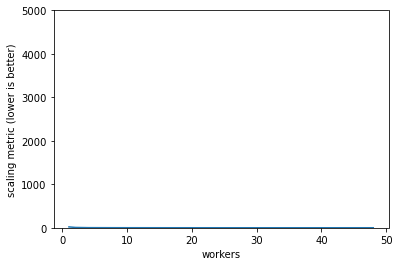
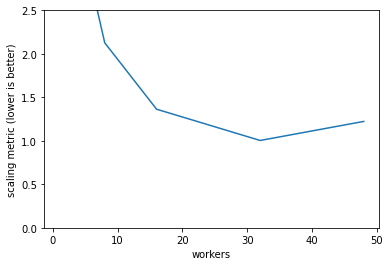
deploy: 26c7104eebc90cf3164a01e3860369a1315e558c

diff --git a/searchindex.js b/searchindex.js
@@ -1,1 +1,1 @@
-Search.setIndex({docnames:["README","case-studies/climatology-threshold","case-studies/read_speed","concepts-intro","concepts-types","dask-intro","dask-performance","dask-troubleshooting"],envversion:{"sphinx.domains.c":2,"sphinx.domains.changeset":1,"sphinx.domains.citation":1,"sphinx.domains.cpp":3,"sphinx.domains.index":1,"sphinx.domains.javascript":2,"sphinx.domains.math":2,"sphinx.domains.python":2,"sphinx.domains.rst":2,"sphinx.domains.std":2,"sphinx.ext.intersphinx":1,sphinx:56},filenames:["README.md","case-studies/climatology-threshold.ipynb","case-studies/read_speed.ipynb","concepts-intro.ipynb","concepts-types.ipynb","dask-intro.ipynb","dask-performance.ipynb","dask-troubleshooting.ipynb"],objects:{},objnames:{},objtypes:{},terms:{"000000000":[1,5],"0000z":7,"001":3,"00bound":5,"00long_nam":1,"011292":2,"01t00":1,"01t01":1,"01t02":1,"02t00":1,"03t00":1,"058817":2,"0625":5,"07374e":5,"079520":2,"08t06":5,"0e410aadf9156f5cf0b6cd8c2849d202ta":5,"0unit":[1,5],"0x14da3c04be20":1,"0x7fdac0880c10":5,"100":[1,2,5,7],"100645e":5,"102":5,"1024":7,"104":[3,5],"105":5,"107":5,"109":5,"10x10":5,"110":5,"111":5,"113":[3,5],"115":5,"117":5,"119":5,"120":5,"122":5,"124":5,"125":5,"126":5,"127":[1,5],"128":5,"130":5,"132":5,"134":5,"135":5,"136":3,"137":5,"139":5,"141":5,"143":5,"144":[3,5],"1440":[1,7],"1440dask":1,"144lon":5,"145":5,"147":5,"149":5,"14min":1,"150":5,"152":5,"154":5,"1543":1,"156":5,"1569":3,"158":5,"15t00":5,"160":5,"162":5,"164":5,"165":5,"167":5,"169":5,"16gb":4,"16t00":5,"16t12":5,"171":5,"172158":2,"173":5,"175":5,"177":5,"179":[1,5],"180":[1,2,5,7],"180346":2,"182":[2,3,5],"184":5,"1850":5,"186":5,"1875":5,"188":5,"18s":1,"190":5,"192":[2,3,5],"192dask":5,"194":5,"194987520":2,"195":5,"197":5,"1980":5,"1980lat":5,"1981":5,"199":5,"1990":4,"1arrai":5,"1bound":5,"200":[2,5,6],"2001":2,"201":5,"2010":[1,4,7],"20100513":1,"2014":5,"201412":5,"2019":5,"203":5,"205":5,"207":5,"209":5,"210":5,"212":5,"214":5,"216":5,"218":5,"220":5,"222":5,"22272":7,"224":5,"225":5,"227":5,"229":5,"231":5,"233":5,"235":5,"237":5,"239":5,"240":[3,5],"242":5,"24373440":2,"244":5,"246":5,"248":5,"250":[1,5],"252":5,"254":5,"255":5,"257":5,"259":5,"261":5,"263":5,"265":5,"267":[1,5,7],"269":5,"269419":2,"270":5,"271356":2,"272":5,"274":5,"276":5,"278":5,"280":5,"282":5,"284":5,"285":5,"287":5,"289":5,"291":5,"293":5,"295":5,"297":5,"299":5,"29t00":1,"2t_era5_oper_sfc_":2,"300":[1,2,5,7],"300x300":7,"302":5,"304":5,"306":5,"308":5,"30t00":1,"30x":7,"310":5,"312":5,"3125":5,"314":5,"315":5,"317":5,"319":5,"31long_nam":1,"31t00":1,"31t21":1,"31t22":1,"31t23":1,"31xarrai":1,"321":5,"323":5,"325":5,"327":5,"329":5,"330":5,"332":5,"334":5,"336":5,"338":5,"340":5,"342":5,"344":5,"345":5,"347":5,"349":5,"351":5,"353":5,"355":5,"357":5,"359":5,"360":[2,5,7],"36379929600":2,"365":[1,3,7],"365latitud":1,"372":[1,7],"375":5,"386297":2,"389975040":2,"38bound":5,"400":2,"406360":2,"4124":3,"4375":5,"43941":1,"45z":5,"475415":2,"48746880":2,"49701":5,"4gb":[4,5],"500":5,"5000":2,"515120":2,"52587890625":7,"5475":7,"552":7,"562":5,"5625":5,"5x5":5,"608944":2,"6093360":2,"60x":7,"625":5,"637993e":2,"643530":2,"6875":5,"688":5,"6_371_000":5,"6bound":5,"720":2,"721":[1,7],"721longitud":1,"744":[1,7],"772545":2,"800":5,"812":5,"8125":5,"819afaabcbec8f647c82c0c200330000":1,"874852":2,"875":5,"8760":[1,7],"8760latitud":1,"87695312":5,"8787":[1,5],"88bound":5,"8ish":6,"8unit":1,"9375":5,"943019":2,"962101":2,"97493760":2,"9arrai":5,"break":[5,6],"byte":[1,5,7],"case":[3,5,6],"class":5,"default":[1,2,5,7],"final":3,"function":[4,7],"import":[1,2,3,5,6,7],"long":[3,6],"new":[1,7],"public":[0,5],"return":[1,5,7],"super":3,"true":[3,5,7],"try":[3,4,5,7],"var":[2,7],"while":3,And:5,CMS:0,For:[1,3,5],Near:5,One:[3,4],PBS:[4,5],That:6,The:[0,1,2,3,4,5,6,7],There:[1,3,4,5],These:6,Using:[4,7],_chunksiz:5,_rand:7,abl:3,about:[1,2,5],access:[4,5,6],accord:3,account:[0,3],across:3,activ:7,actual:[4,5],add:[3,4,6,7],added:3,adding:3,affect:2,after:4,ages:6,ahmdhal:6,aim:[0,6],air:5,air_temperatur:5,air_temperaturelong_nam:5,all:[3,4,5,6,7],alloc:[3,7],allow:6,also:[0,3,4,6],alter:5,altern:7,alwai:3,amon:5,amount:[1,6,7],analys:[0,3,6],analysi:[0,1,3],ani:[2,3,5],anim:6,annot:4,anomali:1,anoth:[3,7],anyth:[1,6],appli:7,approach:3,arang:3,arbitrari:4,arc:0,arccss:5,archiv:1,area:[5,7],areacella:5,areacellahistori:5,around:[3,6,7],arrai:[1,4],arriv:3,ask:5,assign:5,assum:[3,4],atmospher:3,attribut:[1,5],automat:[1,4,5],avail:[0,4,5,6,7],avoid:4,awai:6,awar:3,axes:3,axi:[1,7],back:[5,7],balanc:[2,3],base:3,bash:4,basic:[3,6],becom:[3,6],befor:[1,2,4,6],behaviour:6,being:[3,7],benchmark:2,best:[2,3],better:2,between:[3,4],beyond:2,big:6,bin:4,binari:3,binder:0,bit:6,blocked_groupbi:1,blocked_resampl:[1,7],bodi:7,book:0,both:3,bound:5,box:6,build:5,built:6,button:0,c_d:1,cach:2,calcul:[1,2,3,5,6],call:7,can:[0,1,2,3,4,5,6,7],capabl:4,cat:1,caus:7,cdf_kwarg:1,cell:[5,6,7],cell_height:5,cell_measur:5,cell_method:5,cell_width:5,centr:[0,5],chang:[4,7],check:[1,3,5,7],chip:3,chunk:[1,2,5,7],chunk_siz:2,chunksiz:[1,5],chunktyp:[1,5],clean:[5,6,7],clex:0,client:[1,5,6],clim:1,clim_fil:1,climat:[0,3],climta:[1,5,7],clip:5,close:[5,6],cluster:[1,2,3,5,7],cm2:5,cm2_historical_r1i1p1f1_gn_185001:5,cmip6:5,cmip:5,cmor:5,code:[0,4,6],coecm:0,collect:[0,1],colorbar:5,column:2,com:0,combin:[2,3,4],come:[2,3,6],comm:5,comment:[4,5],common:5,comms_cost:3,commun:3,compens:3,compil:4,complex:4,compress:[2,6],comput:[0,3,4,5,6,7],concat_dim:2,concaten:1,concept:7,configur:5,consecut:6,consid:4,construct:1,contain:[0,6],convert:[3,7],coordin:[1,5],copi:4,core:[1,3,5],correctli:6,correspond:1,cos:5,cost:[2,3],costli:3,could:5,count:[1,2,3,5,6,7],coupl:[3,4],cover:0,cpu:[1,2,3,4,6],creat:[6,7],csiro:5,csv:2,current:[5,6,7],curv:3,cut:6,dai:[1,3,4,7],daili:[1,3,4,7],dapds00:5,dashboard:[1,5,7],dask:[1,2,4,6,7],dask_worker_dir:5,data:[0,1,2,3,4,5,6,7],data_s:2,dataarrai:[1,5],dataset:[0,1,3,5,6,7],datetime64:[1,5],dayofyear:1,decompress:[2,7],def:7,deg2rad:5,degrees_eastaxi:5,degrees_eastlong_nam:1,degrees_northaxi:5,degrees_northlong_nam:1,delet:1,demonstr:0,depend:4,detail:4,determin:3,df_91_180:2,dictionari:1,differ:[1,2,3,4,5,6],difficult:6,dime:5,dimens:[2,5,6],dimension:7,directli:[4,5],directori:[1,5],disk:1,displai:5,distribut:[3,7],dlat:5,dlon:5,doc:5,document:5,dodsc:5,doe:[1,5,6],doesn:[2,3,4,7],doing:[2,3,4,5,6],domain:3,don:[3,5],done:[3,4,6],doubt:6,down:[2,6,7],dramat:[3,7],drop:[2,7],dtype:[1,5],due:6,durat:2,dying:7,each:[1,3,4,5,6,7],easi:[2,6],easiest:4,edg:5,effect:[2,3,6],effici:3,effort:4,either:[3,7],element:[4,5],enabl:[4,5],end:[1,3,4,5,6],endpoint:5,enough:7,ensur:[4,7],entir:7,environ:[1,4],era5:[1,7],era5_msl_daili:7,era5_t2_load:2,errno:5,error:[5,7],especi:[0,3,7],essenti:[0,3],estim:3,etc:[1,4],evalu:[3,4,5],even:5,everi:[1,3,4,6],everyth:6,exampl:[2,3,5],excel:0,except:5,execut:[0,4,5,6,7],exit:7,expect:3,experi:5,experienc:4,explicit:7,explicitli:5,extern:7,extra:[3,4,7],extrapol:3,extrem:0,fairli:6,fals:[2,5],fanci:4,fast:3,faster:[3,4,6],fastest:3,few:[3,5,7],file:[0,1,2,3,4,7],filesystem:5,filter:6,find:[2,3],fine:[6,7],finish:7,first:[1,2,4,6],fit:[3,5],flag:[4,5],float3290:1,float32:[1,5,7],float640:5,float64186:5,float642:5,float64:[5,7],flux:3,focu:[0,2,3],follow:[1,5],fortran:0,found:7,frequenc:3,from:[1,2,3,6,7],from_arrai:7,fs38:5,full:[3,4,5,6],fulli:[2,3],further:[2,6],gadi:[0,1,2,4,5,6],gadicli:[1,5],gca:3,gener:[2,3,6],get:[3,4,5,6,7],getitem:1,github:0,give:[3,5,6],given:[1,2,3],global:[2,3],goe:7,going:6,good:[1,2,6],got:5,gotten:6,graph:[5,7],great:[1,6],grid:[0,5,6],groupbi:[2,7],halfwai:3,handl:4,happen:4,has:[3,4,7],have:[2,3,4,6,7],heart:3,height:5,heightarrai:5,heightstandard_nam:5,help:[3,4,5,6,7],here:[0,1,2,3,4,5,6,7],high:[1,3],higher:3,highlight:7,histor:5,histori:5,hold:[1,7],horizont:[2,6,7],hour:7,hourli:[1,3,4,7],hourly_to_daili:4,hourly_to_daily_year:4,how:[0,2,5,7],howev:[0,6],http:[0,5],huge:[2,5],hundr:7,idea:1,ideal:[2,7],identifi:[4,6,7],iloc:3,implement:7,increas:[3,6,7],indefinit:3,independ:[3,4],index:1,indic:7,ineffici:5,inform:[3,6],initi:[1,6],input:[4,5],inspect:5,instanc:[3,4],instead:[1,5,7],instruct:4,int_:5,intak:1,integ:[2,4],intel:4,intend:3,interact:5,intermedi:7,intrins:4,irregularli:7,isifinit:7,isn:[5,7],isnan:2,issu:[6,7],item:5,iter:[4,6],its:[3,4,5,7],itself:[4,5,7],job:[1,3,4],jobf:1,jupyt:[0,5,6,7],just:[1,2,3,5,6],kcell_method:5,keep:[3,5,6,7],kei:1,kept:6,klong_nam:1,know:5,knowledg:4,known:3,ksu:3,label:2,laid:6,larg:[0,5,6,7],larger:[5,6],lat0:5,lat1:5,lat:5,lat_bndsunit:5,later:5,latest:5,latitud:[1,2,5,7],latitudearrai:[1,5],latitudestandard_nam:5,law:6,layout:2,lazili:5,leav:7,left:0,legend:2,less:[5,6],let:[1,2,4],level:[1,3,6,7],librari:[2,4,5,6,7],like:[3,5,7],limit:[3,5,6,7],link:5,linspac:5,load:[2,4,5,7],local_directori:5,lock:6,lon0:5,lon1:5,lon:5,lon_bndsunit:5,long_nam:[1,5],longitud:[1,2,5,7],longitudearrai:[1,5],longitudestandard_nam:5,look:[1,2,3,6],loop:[5,6,7],lot:[3,6,7],low:[3,6],lower:[2,3],lowest:3,made:[3,5],mai:[0,6,7],make:[1,2,3,4,5,6,7],makean:6,manag:[4,6],mani:[3,5],manifest:6,manner:3,manual:7,march:4,mark:4,massiv:7,match:[1,7],mathcal:3,matplotlib:[1,2,3,5],max:1,maxi:5,maximum:[1,2],mean:[1,4,5,6,7],meancell_measur:5,megabyt:7,mem:4,memori:[1,3,5,6],memory_limit:5,merit:3,messag:[4,7],meta:[1,5],metadata:5,meter:5,method:4,metr:1,metric:2,middl:3,might:[1,3,4],mind:[3,5,6],minimis:[1,2],minimum:[2,3],miss:5,mkl:4,mode:5,model:[0,3,4],modern:[3,4],modul:4,month:[4,7],more:[3,4,5,6],most:[3,4,5,6,7],mostli:7,move:6,mpi:[3,4],msl:7,msl_daili:7,much:[4,5,6,7],multi:7,multipl:[2,3,4,6],multipli:3,multiprocess:4,mx2t:1,n_worker:5,name:[4,5],nameerror:5,nan:2,narrow:2,nativ:4,nbyte:7,nci:[0,1,3,4,5],nci_script:0,ncpu:4,ndarrai:[1,5,7],nearbi:6,neccessari:7,neccessarili:3,need:[1,3,4,5,7],needn:7,neighbour:3,nest:2,netcdf:[2,7],network:3,next:[4,6,7],node:[2,3,4,6],none:2,normal:[5,6],note:[0,4,6],notebook:[0,5],noth:6,now:7,num:5,number:[1,2,3,4,5,6,7],numpi:[1,2,3,4,5,7],observ:3,ocean:3,off:2,often:1,omp:4,omp_num_thread:4,onc:[2,4,5,6,7],one:[3,4,5,6,7],one_thread:2,ones:5,onli:[3,4,5,7],open:[6,7],open_dataarrai:[1,7],open_dataset:[5,6],open_mfdataset:[2,5,7],openmp:4,oper:[1,2,5,6,7],optim:[2,3],optimis:[3,4,7],option:[4,5],order:[3,4,7],org:5,other:[3,4,5,6],otherwis:[5,6],our:[1,2,4],out:[1,2,3,6],outer:5,output:[1,4],over:[1,3,4,5,6,7],own:[3,4,5,6],page:0,panda:[2,3,4,5],paralellis:4,parallel:[0,3,5],parallelis:[3,4,5],parallis:3,paramet:[1,5],parse_byt:2,part:[0,3,4],partner:3,pass:4,past:3,path:[1,2,5],pathlib:1,pbs:4,pbs_jobf:1,pbs_ncpu:4,pcolormesh:5,per:[1,2,4,6,7],percentil:1,perf_count:2,perform:[1,5,7],perhap:[4,6],period:7,phi:5,phi_0:5,phi_1:5,plot:[1,2,3,5,6],plt:[2,3,5],point:[1,3,5,6],polit:5,poor:7,pop:7,possibl:[4,7],post:1,potenti:3,prefer:6,pressur:7,prevent:6,previou:[1,4],primari:0,print:5,printout:7,privat:4,problem:[3,5,6,7],process:[1,2,3,4,5,6,7],process_var:7,processingxarrai:1,processor:3,produc:[0,3,4],product:[3,5],product_typ:1,profil:[4,6],program:[0,3,4],programm:4,progress:6,project:3,proporion:3,proport:2,protocol:5,provid:5,proxi:1,purpos:6,put:1,pyplot:[2,3,5],python:[0,5],qopenmp:4,qsub:5,quadmesh:1,queue:[3,4],quicker:3,quickli:3,quit:[2,7],quota:5,r1i1p1f1:5,r_earth:5,radian:5,random:7,rang:2,rate:7,rather:[1,3,5,6,7],read:[2,3,4,5,6,7],read_csv:[2,3],read_spe:2,real:[3,4],realli:[5,7],reanalysi:[1,2,3,7],reason:[1,5,6,7],recommend:6,recompil:4,record:3,red:6,reduc:3,refer:3,regular:7,regularli:1,rememb:[2,3],replac:5,repres:3,request:[3,5],requir:[1,4],resampl:1,reset:6,reset_index:2,reshap:7,resolut:3,resourc:[3,5,7],restart:7,result:[2,3,4],retain:5,rocket:0,row:2,rt52:[2,7],run:[1,2,3,4,5,6,7],runtim:[3,6],sai:[3,4,5,6,7],same:[3,4,6,7],sampl:[3,7],save:[1,2,4,5,7],scalar:5,scale:[0,2,6],schedul:[1,5],scheme:3,scienc:[0,3],scipi:4,scratch:1,script:[0,4,5],search:[1,3],secondli:4,see:[3,5,7],seen:7,sel:1,select:[2,6],serial:[3,6],serial_fract:3,servic:3,session:0,set:[4,5,7],set_index:2,set_ylim:3,setup:5,sever:1,shape:[1,5,7],share:[3,5],should:[2,4,5,6,7],show:[6,7],shuffl:6,side:[1,3],signific:3,significantli:7,simplest:4,sin:5,sinc:[1,5],singl:[1,3,4,5,6,7],size:[1,2,5,7],skipinitialspac:3,slow:[2,4],small:[3,6],smaller:[3,6],socket:3,solv:7,some:[2,3,6,7],someth:[3,5],somewhat:0,sourc:[0,1,7],space:[0,1,5,7],special:[4,5],specif:[3,6],speed:3,spend:[3,6],spent:2,split:[3,4],stabl:6,stage:6,stall:7,standard:5,standard_nam:5,start:[0,1,2,3,6,7],station:3,statist:3,statu:[1,5],step:1,still:[3,5],stop:5,store:[0,5],straightforward:6,stream:5,stringio:3,structur:5,sub_collect:1,submit:4,subregion:3,subsequ:4,subset:[3,5,6],sum:5,supercomput:[4,5],support:[5,7],sure:[2,4,5,6,7],surfac:[3,5],sys:1,system:[0,5],t_d:1,take:[3,4,5,6],taken:[2,3],talk:3,tas:5,tas_201001:4,tas_:4,tas_amon_access:5,tas_daily_201001:4,tas_daily_:4,task:[1,3,5,7],tcp:[1,5],team:0,techniqu:3,tell:3,temp:7,temperatur:[1,5],temperaturecom:5,temperatureunit:5,tempfil:[1,5],temporari:[1,5,6,7],temporarydirectori:[1,5],textrm:2,than:[1,3,4,5,6,7],thei:[1,3,4,5,7],them:[5,6,7],themselv:[3,4],theta:5,theta_0:5,theta_1:5,thi:[0,1,2,3,4,5,6,7],thing:[2,3,4,7],those:[0,3,5],though:5,thread:[2,5,6],threads_per_work:5,thredd:5,thresh:1,thresh_fil:1,through:3,throughout:3,time:[1,2,3,4,5,6,7],time_bndsaxi:5,time_chunks:5,timearrai:1,timelin:6,timeout:5,timestandard_nam:5,timestep:6,tini:5,tlong_nam:5,tmax:1,tmax_anomali:1,tmax_clim:1,tmax_d:1,tmax_thresh:1,tmp:[1,6],tmpebt79pi8:1,to_dataset_dict:1,to_netcdf:[1,6,7],to_netcdf_throttl:7,togeth:6,too:[4,6,7],top:0,total:[1,3,4,5,7],track:7,train:0,treat:5,trick:4,tricki:6,tupl:5,turn:5,two:1,type:[1,5,6,7],unexpect:4,unit:[1,3,5],unlik:3,uplong_nam:5,usag:6,use:[0,2,3,4,5,6,7],used:[0,3,5,6],useful:[3,5,6],user:[1,3],uses:4,using:[0,3,4,5,6],usual:5,util:2,v20191108:5,valu:[1,3,4,5,7],vari:3,variabl:[2,4],variou:2,vdi:0,vector:[4,5],version:[5,7],view:[4,5],visual:5,wai:[3,4,5,7],wall:[1,2],walltim:[2,3,4],want:[1,2,4,5,7],warn:5,watch:4,weather:[0,3],websit:[0,3],well:[2,6],were:5,what:[3,4,5,6],when:[1,2,3,4,5,6,7],where:[3,7],whether:[3,6],which:[1,3,4,5],whole:[4,5,7],width:5,within:[4,5,6],without:[4,5,7],won:3,work:[0,2,3,4,5,6,7],workaround:7,worker:[1,2,5,7],world:3,would:[3,4,5],write:[3,4,5,6],x27:[1,5],xarrai:[1,2,4,5,6,7],xhost:4,xlabel:[2,3],xlong_nam:5,xtick:2,year:[1,3,4],ylabel:[2,3],ylim:2,ylong_nam:5,you:[1,3,4,5,6,7],your:[1,3,5,6,7],zero:7,zposit:5},titles:["Front Matter","Climatology Threshold","Measuring Performance","Introduction","Types of parallelism","Introduction","Performance","Pathological Behaviour and Troubleshooting"],titleterms:{Dying:7,ahmdahl:3,arrai:[5,7],backpressur:7,behaviour:7,charg:3,choic:6,chunk:6,climatolog:[1,7],cluster:6,common:4,condit:4,contribut:0,creat:5,dashboard:6,dask:5,design:4,distribut:[4,5,6],embarissingli:4,era5:2,file:[5,6],fortran:4,from:5,front:0,gnu:4,gotcha:4,graph:6,index:7,intermedi:6,introduct:[3,5],kernel:7,lack:7,law:3,level:2,load:6,lock:4,loop:4,manual:5,matter:0,mean:2,measur:2,memori:[4,7],netcdf:[5,6],one:2,oper:4,out:7,parallel:4,patholog:7,pattern:4,perform:[2,6],profil:3,python:4,qsub:4,race:4,resampl:7,save:6,scale:3,shape:6,share:4,singl:2,size:6,supercomput:3,task:6,threshold:1,troubleshoot:7,type:4,using:7,vectoris:4,year:2}})
+Search.setIndex({docnames:["README","case-studies/climatology-threshold","case-studies/read_speed","concepts-intro","concepts-types","dask-intro","dask-performance","dask-troubleshooting"],envversion:{"sphinx.domains.c":2,"sphinx.domains.changeset":1,"sphinx.domains.citation":1,"sphinx.domains.cpp":3,"sphinx.domains.index":1,"sphinx.domains.javascript":2,"sphinx.domains.math":2,"sphinx.domains.python":2,"sphinx.domains.rst":2,"sphinx.domains.std":2,"sphinx.ext.intersphinx":1,sphinx:56},filenames:["README.md","case-studies/climatology-threshold.ipynb","case-studies/read_speed.ipynb","concepts-intro.ipynb","concepts-types.ipynb","dask-intro.ipynb","dask-performance.ipynb","dask-troubleshooting.ipynb"],objects:{},objnames:{},objtypes:{},terms:{"000000000":[1,5],"0000z":7,"001":3,"00bound":5,"00long_nam":1,"011292":2,"01t00":1,"01t01":1,"01t02":1,"02t00":1,"03t00":1,"058817":2,"0625":5,"07374e":5,"079520":2,"08t06":5,"0e410aadf9156f5cf0b6cd8c2849d202ta":5,"0unit":[1,5],"0x14da3c04be20":1,"0x7fdac0880c10":5,"100":[1,2,5,7],"100645e":5,"102":5,"1024":7,"104":[3,5],"105":5,"107":5,"109":5,"10x10":5,"110":5,"111":5,"113":[3,5],"115":5,"117":5,"119":5,"120":5,"122":5,"124":5,"125":5,"126":5,"127":[1,5],"128":5,"130":5,"132":5,"134":5,"135":5,"136":3,"137":5,"139":5,"141":5,"143":5,"144":[3,5],"1440":[1,7],"1440dask":1,"144lon":5,"145":5,"147":5,"149":5,"14min":1,"150":5,"152":5,"154":5,"1543":1,"156":5,"1569":3,"158":5,"15t00":5,"160":5,"162":5,"164":5,"165":5,"167":5,"169":5,"16gb":4,"16t00":5,"16t12":5,"171":5,"172158":2,"173":5,"175":5,"177":5,"179":[1,5],"180":[1,2,5,7],"180346":2,"182":[2,3,5],"184":5,"1850":5,"186":5,"1875":5,"188":5,"18s":1,"190":5,"192":[2,3,5],"192dask":5,"194":5,"194987520":2,"195":5,"197":5,"1980":5,"1980lat":5,"1981":5,"199":5,"1990":4,"1arrai":5,"1bound":5,"200":[2,5,6],"2001":2,"201":5,"2010":[1,4,7],"20100513":1,"2014":5,"201412":5,"2019":5,"203":5,"205":5,"207":5,"209":5,"210":5,"212":5,"214":5,"216":5,"218":5,"220":5,"222":5,"22272":7,"224":5,"225":5,"227":5,"229":5,"231":5,"233":5,"235":5,"237":5,"239":5,"240":[3,5],"242":5,"24373440":2,"244":5,"246":5,"248":5,"250":[1,5],"252":5,"254":5,"255":5,"257":5,"259":5,"261":5,"263":5,"265":5,"267":[1,5,7],"269":5,"269419":2,"270":5,"271356":2,"272":5,"274":5,"276":5,"278":5,"280":5,"282":5,"284":5,"285":5,"287":5,"289":5,"291":5,"293":5,"295":5,"297":5,"299":5,"29t00":1,"2t_era5_oper_sfc_":2,"300":[1,2,5,7],"300x300":7,"302":5,"304":5,"306":5,"308":5,"30t00":1,"30x":7,"310":5,"312":5,"3125":5,"314":5,"315":5,"317":5,"319":5,"31long_nam":1,"31t00":1,"31t21":1,"31t22":1,"31t23":1,"31xarrai":1,"321":5,"323":5,"325":5,"327":5,"329":5,"330":5,"332":5,"334":5,"336":5,"338":5,"340":5,"342":5,"344":5,"345":5,"347":5,"349":5,"351":5,"353":5,"355":5,"357":5,"359":5,"360":[2,5,7],"36379929600":2,"365":[1,3,7],"365latitud":1,"372":[1,7],"375":5,"386297":2,"389975040":2,"38bound":5,"400":2,"406360":2,"4124":3,"4375":5,"43941":1,"45z":5,"475415":2,"48746880":2,"49701":5,"4gb":[4,5],"500":5,"515120":2,"52587890625":7,"5475":7,"552":7,"562":5,"5625":5,"5x5":5,"608944":2,"6093360":2,"60x":7,"625":5,"637993e":2,"643530":2,"6875":5,"688":5,"6_371_000":5,"6bound":5,"720":2,"721":[1,7],"721longitud":1,"744":[1,7],"772545":2,"800":5,"812":5,"8125":5,"819afaabcbec8f647c82c0c200330000":1,"874852":2,"875":5,"8760":[1,7],"8760latitud":1,"87695312":5,"8787":[1,5],"88bound":5,"8ish":6,"8unit":1,"9375":5,"943019":2,"962101":2,"97493760":2,"9arrai":5,"break":[5,6],"byte":[1,5,7],"case":[3,5,6],"class":5,"default":[1,2,5,7],"final":3,"function":[4,7],"import":[1,2,3,5,6,7],"long":[3,6],"new":[1,7],"public":[0,5],"return":[1,5,7],"super":3,"true":[3,5,7],"try":[3,4,5,7],"var":[2,7],"while":3,And:5,CMS:0,For:[1,3,5],Near:5,One:[3,4],PBS:[4,5],That:6,The:[0,1,2,3,4,5,6,7],There:[1,3,4,5],These:6,Using:[4,7],_chunksiz:5,_rand:7,abl:3,about:[1,2,5],access:[4,5,6],accord:3,account:[0,3],across:3,activ:7,actual:[4,5],add:[3,4,6,7],added:3,adding:3,affect:2,after:4,ages:6,ahmdhal:6,aim:[0,6],air:5,air_temperatur:5,air_temperaturelong_nam:5,all:[3,4,5,6,7],alloc:[3,7],allow:6,also:[0,3,4,6],alter:5,altern:7,alwai:3,amon:5,amount:[1,6,7],analys:[0,3,6],analysi:[0,1,3],ani:[2,3,5],anim:6,annot:4,anomali:1,anoth:[3,7],anyth:[1,6],appli:7,approach:3,arang:3,arbitrari:4,arc:0,arccss:5,archiv:1,area:[5,7],areacella:5,areacellahistori:5,around:[3,6,7],arrai:[1,4],arriv:3,ask:5,assign:5,assum:[3,4],atmospher:3,attribut:[1,5],automat:[1,4,5],avail:[0,4,5,6,7],avoid:4,awai:6,awar:3,axes:3,axi:[1,7],back:[5,7],balanc:[2,3],base:3,bash:4,basic:[3,6],becom:[3,6],befor:[1,2,4,6],behaviour:6,being:[3,7],benchmark:2,best:[2,3],better:2,between:[3,4],beyond:2,big:6,bin:4,binari:3,binder:0,bit:6,blocked_groupbi:1,blocked_resampl:[1,7],bodi:7,book:0,both:3,bound:5,box:6,build:5,built:6,button:0,c_d:1,cach:2,calcul:[1,2,3,5,6],call:7,can:[0,1,2,3,4,5,6,7],capabl:4,cat:1,caus:7,cdf_kwarg:1,cell:[5,6,7],cell_height:5,cell_measur:5,cell_method:5,cell_width:5,centr:[0,5],chang:[4,7],check:[1,3,5,7],chip:3,chunk:[1,2,5,7],chunk_siz:2,chunksiz:[1,5],chunktyp:[1,5],clean:[5,6,7],clex:0,client:[1,5,6],clim:1,clim_fil:1,climat:[0,3],climta:[1,5,7],clip:5,close:[5,6],cluster:[1,2,3,5,7],cm2:5,cm2_historical_r1i1p1f1_gn_185001:5,cmip6:5,cmip:5,cmor:5,code:[0,4,6],coecm:0,collect:[0,1],colorbar:5,column:2,com:0,combin:[2,3,4],come:[2,3,6],comm:5,comment:[4,5],common:5,comms_cost:3,commun:3,compens:3,compil:4,complex:4,compress:[2,6],comput:[0,3,4,5,6,7],concat_dim:2,concaten:1,concept:7,configur:5,consecut:6,consid:4,construct:1,contain:[0,6],convert:[3,7],coordin:[1,5],copi:4,core:[1,3,5],correctli:6,correspond:1,cos:5,cost:[2,3],costli:3,could:5,count:[1,2,3,5,6,7],coupl:[3,4],cover:0,cpu:[1,2,3,4,6],creat:[6,7],csiro:5,csv:2,current:[5,6,7],curv:3,cut:6,dai:[1,3,4,7],daili:[1,3,4,7],dapds00:5,dashboard:[1,5,7],dask:[1,2,4,6,7],dask_worker_dir:5,data:[0,1,2,3,4,5,6,7],data_s:2,dataarrai:[1,5],dataset:[0,1,3,5,6,7],datetime64:[1,5],dayofyear:1,decompress:[2,7],def:7,deg2rad:5,degrees_eastaxi:5,degrees_eastlong_nam:1,degrees_northaxi:5,degrees_northlong_nam:1,delet:1,demonstr:0,depend:4,detail:4,determin:3,df_91_180:2,dictionari:1,differ:[1,2,3,4,5,6],difficult:6,dime:5,dimens:[2,5,6],dimension:7,directli:[4,5],directori:[1,5],disk:1,displai:5,distribut:[3,7],dlat:5,dlon:5,doc:5,document:5,dodsc:5,doe:[1,5,6],doesn:[2,3,4,7],doing:[2,3,4,5,6],domain:3,don:[3,5],done:[3,4,6],doubt:6,down:[2,6,7],dramat:[3,7],drop:[2,7],dtype:[1,5],due:6,durat:2,dying:7,each:[1,3,4,5,6,7],easi:[2,6],easiest:4,edg:5,effect:[2,3,6],effici:3,effort:4,either:[3,7],element:[4,5],enabl:[4,5],end:[1,3,4,5,6],endpoint:5,enough:7,ensur:[4,7],entir:7,environ:[1,4],era5:[1,7],era5_msl_daili:7,era5_t2_load:2,errno:5,error:[5,7],especi:[0,3,7],essenti:[0,3],estim:3,etc:[1,4],evalu:[3,4,5],even:5,everi:[1,3,4,6],everyth:6,exampl:[2,3,5],excel:0,except:5,execut:[0,4,5,6,7],exit:7,expect:3,experi:5,experienc:4,explicit:7,explicitli:5,extern:7,extra:[3,4,7],extrapol:3,extrem:0,fairli:6,fals:[2,5],fanci:4,fast:3,faster:[3,4,6],fastest:3,few:[3,5,7],file:[0,1,2,3,4,7],filesystem:5,filter:6,find:[2,3],fine:[6,7],finish:7,first:[1,2,4,6],fit:[3,5],flag:[4,5],float3290:1,float32:[1,5,7],float640:5,float64186:5,float642:5,float64:[5,7],flux:3,focu:[0,2,3],follow:[1,5],fortran:0,found:7,frequenc:3,from:[1,2,3,6,7],from_arrai:7,fs38:5,full:[3,4,5,6],fulli:[2,3],further:[2,6],gadi:[0,1,2,4,5,6],gadicli:[1,5],gca:3,gener:[2,3,6],get:[3,4,5,6,7],getitem:1,github:0,give:[3,5,6],given:[1,2,3],global:[2,3],goe:7,going:6,good:[1,2,6],got:5,gotten:6,graph:[5,7],great:[1,6],grid:[0,5,6],groupbi:[2,7],halfwai:3,handl:4,happen:4,has:[3,4,7],have:[2,3,4,6,7],heart:3,height:5,heightarrai:5,heightstandard_nam:5,help:[3,4,5,6,7],here:[0,1,2,3,4,5,6,7],high:[1,3],higher:3,highlight:7,histor:5,histori:5,hold:[1,7],horizont:[2,6,7],hour:7,hourli:[1,3,4,7],hourly_to_daili:4,hourly_to_daily_year:4,how:[0,2,5,7],howev:[0,6],http:[0,5],huge:[2,5],hundr:7,idea:1,ideal:[2,7],identifi:[4,6,7],iloc:3,implement:7,increas:[3,6,7],indefinit:3,independ:[3,4],index:1,indic:7,ineffici:5,inform:[3,6],initi:[1,6],input:[4,5],inspect:5,instanc:[3,4],instead:[1,5,7],instruct:4,int_:5,intak:1,integ:[2,4],intel:4,intend:3,interact:5,intermedi:7,intrins:4,irregularli:7,isifinit:7,isn:[5,7],isnan:2,issu:[6,7],item:5,iter:[4,6],its:[3,4,5,7],itself:[4,5,7],job:[1,3,4],jobf:1,jupyt:[0,5,6,7],just:[1,2,3,5,6],kcell_method:5,keep:[3,5,6,7],kei:1,kept:6,klong_nam:1,know:5,knowledg:4,known:3,ksu:3,label:2,laid:6,larg:[0,5,6,7],larger:[5,6],lat0:5,lat1:5,lat:5,lat_bndsunit:5,later:5,latest:5,latitud:[1,2,5,7],latitudearrai:[1,5],latitudestandard_nam:5,law:6,layout:2,lazili:5,leav:7,left:0,legend:2,less:[5,6],let:[1,2,4],level:[1,3,6,7],librari:[2,4,5,6,7],like:[3,5,7],limit:[3,5,6,7],link:5,linspac:5,load:[2,4,5,7],local_directori:5,lock:6,lon0:5,lon1:5,lon:5,lon_bndsunit:5,long_nam:[1,5],longitud:[1,2,5,7],longitudearrai:[1,5],longitudestandard_nam:5,look:[1,2,3,6],loop:[5,6,7],lot:[3,6,7],low:[3,6],lower:[2,3],lowest:3,made:[3,5],mai:[0,6,7],make:[1,2,3,4,5,6,7],makean:6,manag:[4,6],mani:[3,5],manifest:6,manner:3,manual:7,march:4,mark:4,massiv:7,match:[1,7],mathcal:3,matplotlib:[1,2,3,5],max:1,maxi:5,maximum:[1,2],mean:[1,4,5,6,7],meancell_measur:5,megabyt:7,mem:4,memori:[1,3,5,6],memory_limit:5,merit:3,messag:[4,7],meta:[1,5],metadata:5,meter:5,method:4,metr:1,metric:2,middl:3,might:[1,3,4],mind:[3,5,6],minimis:[1,2],minimum:[2,3],miss:5,mkl:4,mode:5,model:[0,3,4],modern:[3,4],modul:4,month:[4,7],more:[3,4,5,6],most:[3,4,5,6,7],mostli:7,move:6,mpi:[3,4],msl:7,msl_daili:7,much:[4,5,6,7],multi:7,multipl:[2,3,4,6],multipli:3,multiprocess:4,mx2t:1,n_worker:5,name:[4,5],nameerror:5,nan:2,narrow:2,nativ:4,nbyte:7,nci:[0,1,3,4,5],nci_script:0,ncpu:4,ndarrai:[1,5,7],nearbi:6,neccessari:7,neccessarili:3,need:[1,3,4,5,7],needn:7,neighbour:3,nest:2,netcdf:[2,7],network:3,next:[4,6,7],node:[2,3,4,6],none:2,normal:[5,6],note:[0,4,6],notebook:[0,5],noth:6,now:7,num:5,number:[1,2,3,4,5,6,7],numpi:[1,2,3,4,5,7],observ:3,ocean:3,off:2,often:1,omp:4,omp_num_thread:4,onc:[2,4,5,6,7],one:[3,4,5,6,7],one_thread:2,ones:5,onli:[3,4,5,7],open:[6,7],open_dataarrai:[1,7],open_dataset:[5,6],open_mfdataset:[2,5,7],openmp:4,oper:[1,2,5,6,7],optim:[2,3],optimis:[3,4,7],option:[4,5],order:[3,4,7],org:5,other:[3,4,5,6],otherwis:[5,6],our:[1,2,4],out:[1,2,3,6],outer:5,output:[1,4],over:[1,3,4,5,6,7],own:[3,4,5,6],page:0,panda:[2,3,4,5],paralellis:4,parallel:[0,3,5],parallelis:[3,4,5],parallis:3,paramet:[1,5],parse_byt:2,part:[0,3,4],partner:3,pass:4,past:3,path:[1,2,5],pathlib:1,pbs:4,pbs_jobf:1,pbs_ncpu:4,pcolormesh:5,per:[1,2,4,6,7],percentil:1,perf_count:2,perform:[1,5,7],perhap:[4,6],period:7,phi:5,phi_0:5,phi_1:5,plot:[1,2,3,5,6],plt:[2,3,5],point:[1,3,5,6],polit:5,poor:7,pop:7,possibl:[4,7],post:1,potenti:3,prefer:6,pressur:7,prevent:6,previou:[1,4],primari:0,print:5,printout:7,privat:4,problem:[3,5,6,7],process:[1,2,3,4,5,6,7],process_var:7,processingxarrai:1,processor:3,produc:[0,3,4],product:[3,5],product_typ:1,profil:[4,6],program:[0,3,4],programm:4,progress:6,project:3,proporion:3,proport:2,protocol:5,provid:5,proxi:1,purpos:6,put:1,pyplot:[2,3,5],python:[0,5],qopenmp:4,qsub:5,quadmesh:1,queue:[3,4],quicker:3,quickli:3,quit:[2,7],quota:5,r1i1p1f1:5,r_earth:5,radian:5,random:7,rang:2,rate:7,rather:[1,3,5,6,7],read:[2,3,4,5,6,7],read_csv:[2,3],read_spe:2,real:[3,4],realli:[5,7],reanalysi:[1,2,3,7],reason:[1,5,6,7],recommend:6,recompil:4,record:3,red:6,reduc:3,refer:3,regular:7,regularli:1,rememb:[2,3],replac:5,repres:3,request:[3,5],requir:[1,4],resampl:1,reset:6,reset_index:2,reshap:7,resolut:3,resourc:[3,5,7],restart:7,result:[2,3,4],retain:5,rocket:0,row:2,rt52:[2,7],run:[1,2,3,4,5,6,7],runtim:[3,6],sai:[3,4,5,6,7],same:[3,4,6,7],sampl:[3,7],save:[1,2,4,5,7],scalar:5,scale:[0,2,6],schedul:[1,5],scheme:3,scienc:[0,3],scipi:4,scratch:1,script:[0,4,5],search:[1,3],secondli:4,see:[3,5,7],seen:7,sel:1,select:[2,6],serial:[3,6],serial_fract:3,servic:3,session:0,set:[4,5,7],set_index:2,set_ylim:3,setup:5,sever:1,shape:[1,5,7],share:[3,5],should:[2,4,5,6,7],show:[6,7],shuffl:6,side:[1,3],signific:3,significantli:7,simplest:4,sin:5,sinc:[1,5],singl:[1,3,4,5,6,7],size:[1,2,5,7],skipinitialspac:3,slow:[2,4],small:[3,6],smaller:[3,6],socket:3,solv:7,some:[2,3,6,7],someth:[3,5],somewhat:0,sourc:[0,1,7],space:[0,1,5,7],special:[4,5],specif:[3,6],speed:3,spend:[3,6],spent:2,split:[3,4],stabl:6,stage:6,stall:7,standard:5,standard_nam:5,start:[0,1,2,3,6,7],station:3,statist:3,statu:[1,5],step:1,still:[3,5],stop:5,store:[0,5],straightforward:6,stream:5,stringio:3,structur:5,sub_collect:1,submit:4,subregion:3,subsequ:4,subset:[3,5,6],sum:5,supercomput:[4,5],support:[5,7],sure:[2,4,5,6,7],surfac:[3,5],sys:1,system:[0,5],t_d:1,take:[3,4,5,6],taken:[2,3],talk:3,tas:5,tas_201001:4,tas_:4,tas_amon_access:5,tas_daily_201001:4,tas_daily_:4,task:[1,3,5,7],tcp:[1,5],team:0,techniqu:3,tell:3,temp:7,temperatur:[1,5],temperaturecom:5,temperatureunit:5,tempfil:[1,5],temporari:[1,5,6,7],temporarydirectori:[1,5],textrm:2,than:[1,3,4,5,6,7],thei:[1,3,4,5,7],them:[5,6,7],themselv:[3,4],theta:5,theta_0:5,theta_1:5,thi:[0,1,2,3,4,5,6,7],thing:[2,3,4,7],those:[0,3,5],though:5,thread:[2,5,6],threads_per_work:5,thredd:5,thresh:1,thresh_fil:1,through:3,throughout:3,time:[1,2,3,4,5,6,7],time_bndsaxi:5,time_chunks:5,timearrai:1,timelin:6,timeout:5,timestandard_nam:5,timestep:6,tini:5,tlong_nam:5,tmax:1,tmax_anomali:1,tmax_clim:1,tmax_d:1,tmax_thresh:1,tmp:[1,6],tmpebt79pi8:1,to_dataset_dict:1,to_netcdf:[1,6,7],to_netcdf_throttl:7,togeth:6,too:[4,6,7],top:0,total:[1,3,4,5,7],track:7,train:0,treat:5,trick:4,tricki:6,tupl:5,turn:5,two:1,type:[1,5,6,7],unexpect:4,unit:[1,3,5],unlik:3,uplong_nam:5,usag:6,use:[0,2,3,4,5,6,7],used:[0,3,5,6],useful:[3,5,6],user:[1,3],uses:4,using:[0,3,4,5,6],usual:5,util:2,v20191108:5,valu:[1,3,4,5,7],vari:3,variabl:[2,4],variou:2,vdi:0,vector:[4,5],version:[5,7],view:[4,5],visual:5,wai:[3,4,5,7],wall:[1,2],walltim:[2,3,4],want:[1,2,4,5,7],warn:5,watch:4,weather:[0,3],websit:[0,3],well:[2,6],were:5,what:[3,4,5,6],when:[1,2,3,4,5,6,7],where:[3,7],whether:[3,6],which:[1,3,4,5],whole:[4,5,7],width:5,within:[4,5,6],without:[4,5,7],won:3,work:[0,2,3,4,5,6,7],workaround:7,worker:[1,2,5,7],world:3,would:[3,4,5],write:[3,4,5,6],x27:[1,5],xarrai:[1,2,4,5,6,7],xhost:4,xlabel:[2,3],xlong_nam:5,xtick:2,year:[1,3,4],ylabel:[2,3],ylim:2,ylong_nam:5,you:[1,3,4,5,6,7],your:[1,3,5,6,7],zero:7,zposit:5},titles:["Front Matter","Climatology Threshold","Measuring Performance","Introduction","Types of parallelism","Introduction","Performance","Pathological Behaviour and Troubleshooting"],titleterms:{Dying:7,ahmdahl:3,arrai:[5,7],backpressur:7,behaviour:7,charg:3,choic:6,chunk:6,climatolog:[1,7],cluster:6,common:4,condit:4,contribut:0,creat:5,dashboard:6,dask:5,design:4,distribut:[4,5,6],embarissingli:4,era5:2,file:[5,6],fortran:4,from:5,front:0,gnu:4,gotcha:4,graph:6,index:7,intermedi:6,introduct:[3,5],kernel:7,lack:7,law:3,level:2,load:6,lock:4,loop:4,manual:5,matter:0,mean:2,measur:2,memori:[4,7],netcdf:[5,6],one:2,oper:4,out:7,parallel:4,patholog:7,pattern:4,perform:[2,6],profil:3,python:4,qsub:4,race:4,resampl:7,save:6,scale:3,shape:6,share:4,singl:2,size:6,supercomput:3,task:6,threshold:1,troubleshoot:7,type:4,using:7,vectoris:4,year:2}})

diff --git a/case-studies/read_speed.html b/case-studies/read_speed.html
@@ -626,7 +626,7 @@
 <div class="cell docutils container">
 <div class="cell_input docutils container">
 <div class="highlight-ipython3 notranslate"><div class="highlight"><pre><span></span><span class="p">(</span><span class="n">wall</span> <span class="o">*</span> <span class="n">cost</span><span class="p">)</span><span class="o">.</span><span class="n">plot</span><span class="p">()</span>
-<span class="n">plt</span><span class="o">.</span><span class="n">ylim</span><span class="p">([</span><span class="mi">0</span><span class="p">,</span><span class="mi">5000</span><span class="p">])</span>
+<span class="n">plt</span><span class="o">.</span><span class="n">ylim</span><span class="p">([</span><span class="mi">0</span><span class="p">,</span><span class="mf">2.5</span><span class="p">])</span>
 <span class="n">plt</span><span class="o">.</span><span class="n">ylabel</span><span class="p">(</span><span class="s1">&#39;scaling metric (lower is better)&#39;</span><span class="p">);</span>
 </pre></div>
 </div>
